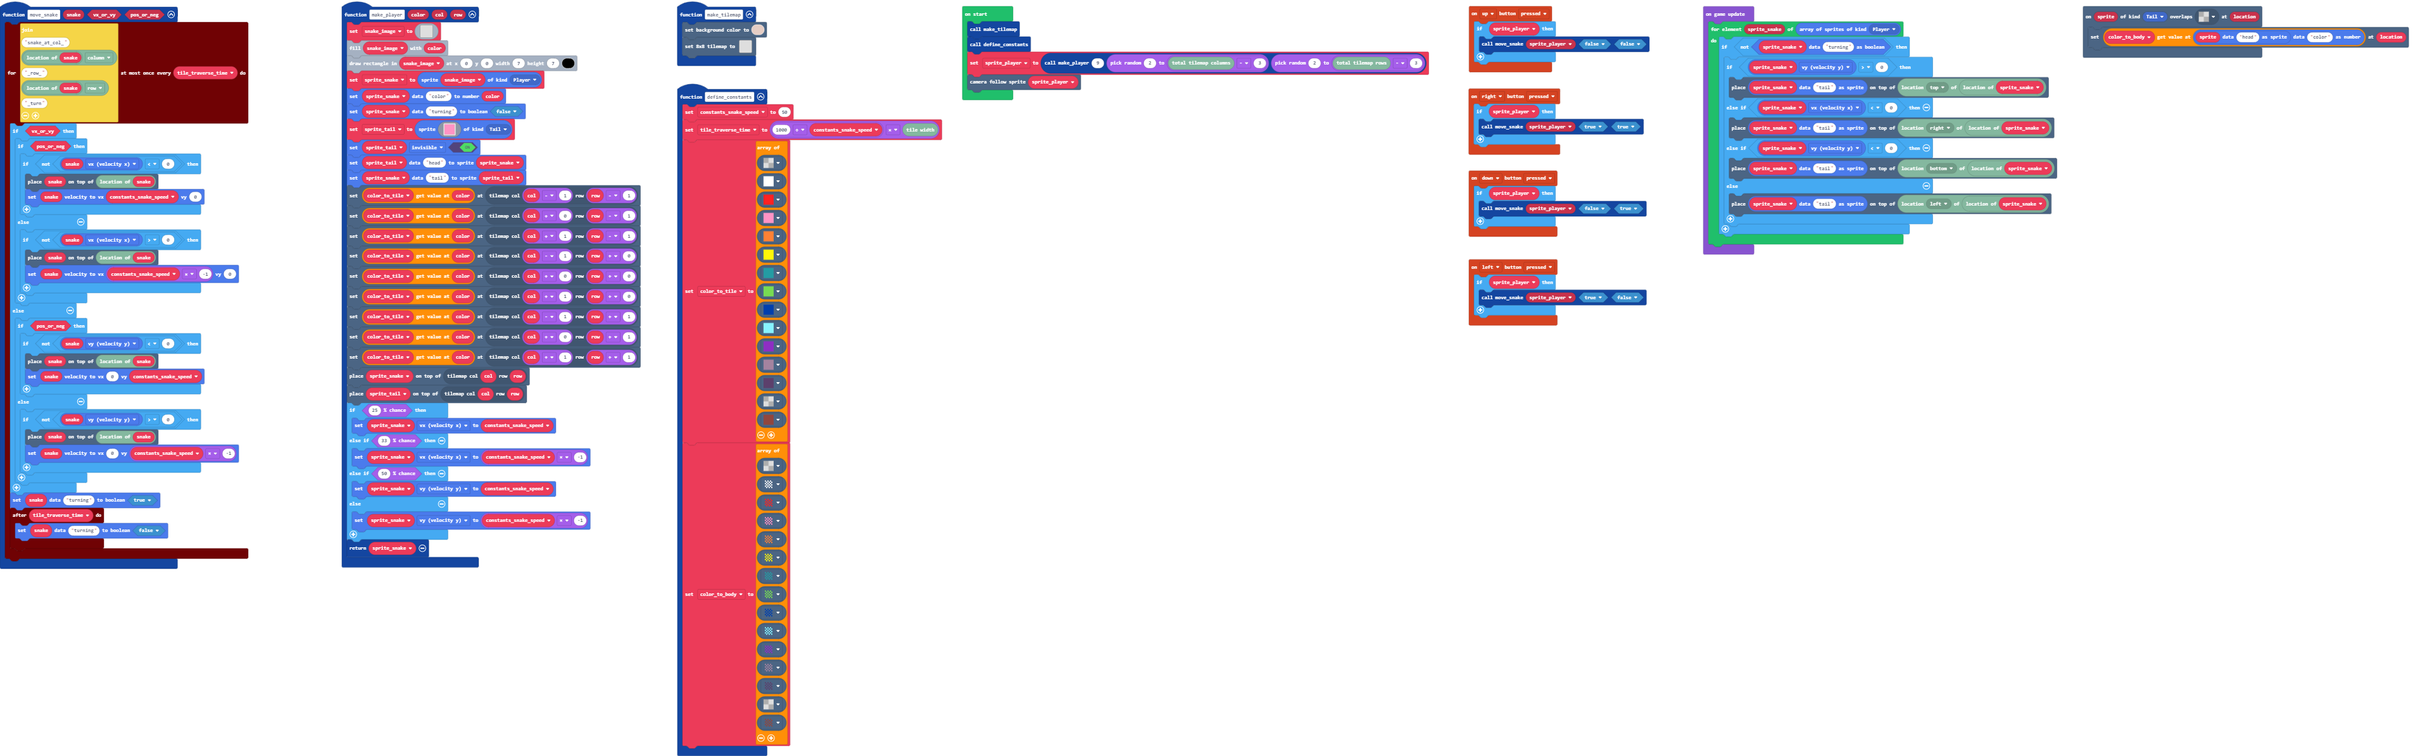
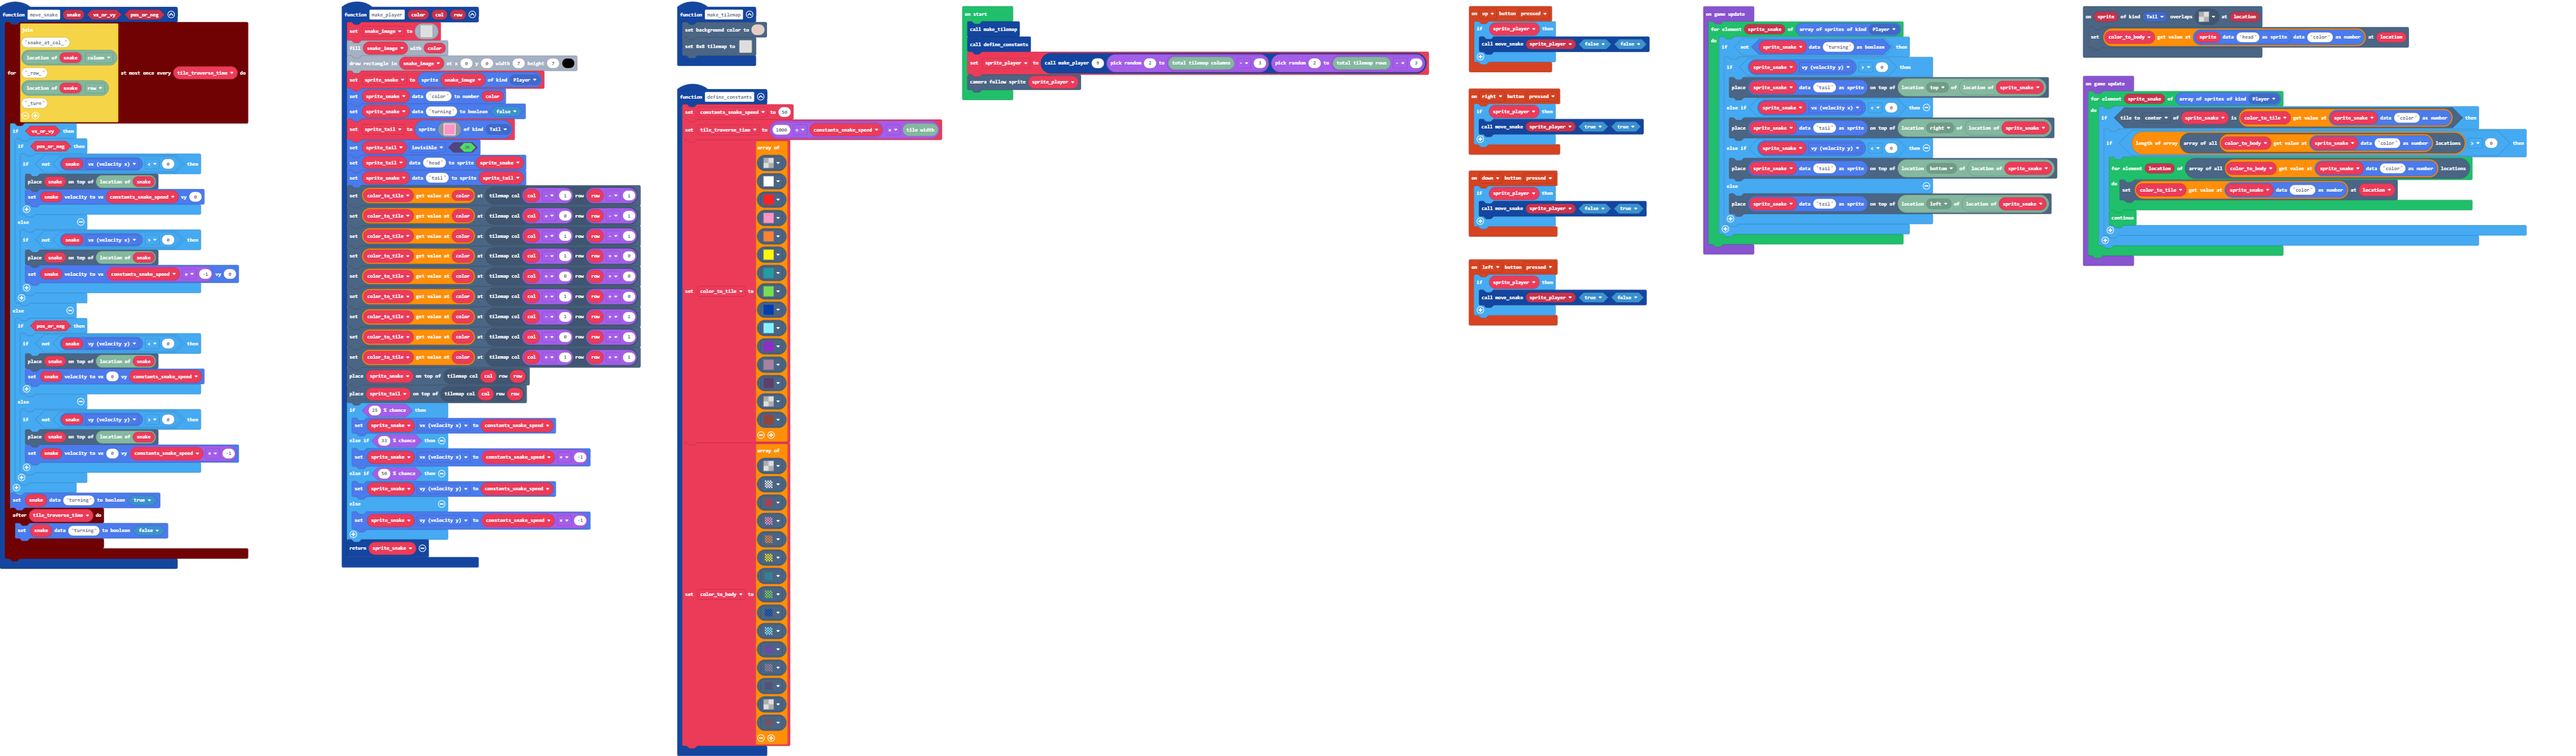
Can fill in outline after marking off

Changed region(s): [[0.0, 0.0, 0.9943, 1.0]]

diff --git a/main.ts b/main.ts
@@ -159,3 +159,15 @@ game.onUpdate(function () {
         }
     }
 })
+game.onUpdate(function () {
+    for (let sprite_snake of sprites.allOfKind(SpriteKind.Player)) {
+        if (sprite_snake.tileKindAt(TileDirection.Center, color_to_tile[sprites.readDataNumber(sprite_snake, "color")])) {
+            if (tiles.getTilesByType(color_to_body[sprites.readDataNumber(sprite_snake, "color")]).length > 0) {
+                for (let location of tiles.getTilesByType(color_to_body[sprites.readDataNumber(sprite_snake, "color")])) {
+                    tiles.setTileAt(location, color_to_tile[sprites.readDataNumber(sprite_snake, "color")])
+                }
+                continue;
+            }
+        }
+    }
+})
